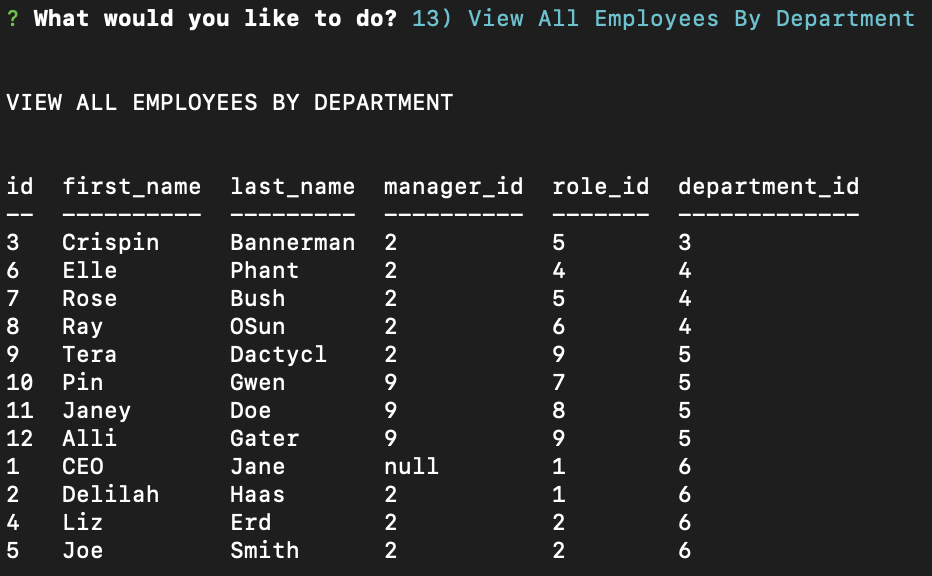
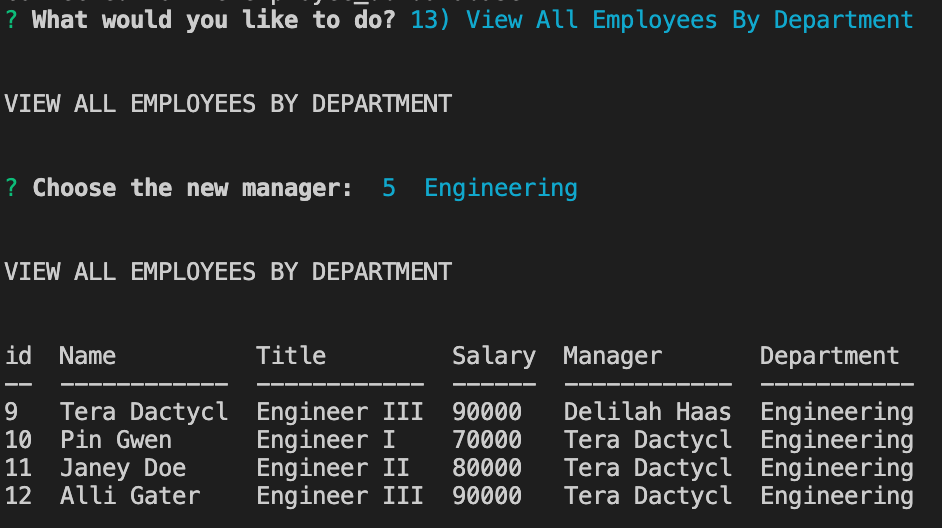
added updated viedo and screenshots

diff --git a/server.js b/server.js
@@ -605,27 +605,73 @@ async function removeDepartment() {
 
 // Menu option 13) View All Employees By Department
 function allEmployeesByDept() {
-    const query = `SELECT id, first_name, last_name, manager_id, role_id, department_id FROM employee WHERE deleted_time is NULL ORDER BY department_id;`;
-    db.query(query, (err, res) => {
+    console.log('\n');
+    console.log('VIEW ALL EMPLOYEES BY DEPARTMENT');
+    console.log('\n');
+
+    // Provide output from employee table for only subset of employees
+    db.query('SELECT * FROM department WHERE deleted_time is NULL;', async (err, res) => {
         if (err) throw err;
-        console.log('\n');
-        console.log('VIEW ALL EMPLOYEES BY DEPARTMENT');
-        console.log('\n');
-        console.table(res);
-        init();
+        let choices = res.map(res => `${res.id}  ${res.name}`);
+        choices.push('none');
+        let { department } = await inquirer.prompt([
+            {
+                name: 'department',
+                type: 'list',
+                choices: choices,
+                message: 'Choose the new manager: '
+            }
+        ]);
+
+        // Use department_id from inquirer.prompt to use in select query
+        const departmentId = department.split(' ')[0];
+        
+        const query = `SELECT e.id, CONCAT(e.first_name, " ", e.last_name) AS Name, role.title AS Title, role.salary AS Salary, CONCAT(m.first_name, " ", m.last_name) AS Manager, department.name AS Department FROM employee e INNER JOIN role ON role_id=role.id INNER JOIN employee m ON e.manager_id=m.id INNER JOIN department ON role.department_id=department.id and e.deleted_time is NULL WHERE e.department_id = ${departmentId} order by e.id;`;
+        // Output all Employees for selected Manager
+        db.query(query, (err, res) => {
+            if (err) throw err;
+            console.log('\n');
+            console.log('VIEW ALL EMPLOYEES BY DEPARTMENT');
+            console.log('\n');
+            console.table(res);
+            init();
+        });
     });
 };
 
 // Menu option 14) View All Employees by Manager
 function allEmployeesByManager() {
-    const query = `SELECT id, first_name, last_name, manager_id, role_id, department_id FROM employee WHERE deleted_time is NULL ORDER BY manager_id;`;
-    db.query(query, (err, res) => {
+    console.log('\n');
+    console.log('VIEW ALL EMPLOYEES BY MANAGER');
+    console.log('\n');
+
+    // Provide output from employee table for only subset of employees
+    db.query('SELECT * FROM employee WHERE deleted_time is NULL;', async (err, res) => {
         if (err) throw err;
-        console.log('\n');
-        console.log('VIEW ALL EMPLOYEES BY MANAGER');
-        console.log('\n');
-        console.table(res);
-        init();
+        let choices = res.map(res => `${res.id}  ${res.first_name} ${res.last_name}`);
+        choices.push('none');
+        let { employee } = await inquirer.prompt([
+            {
+                name: 'employee',
+                type: 'list',
+                choices: choices,
+                message: 'Choose the new manager: '
+            }
+        ]);
+
+        // Use manager_id from inquirer.prompt to use in select query
+        const managerId = employee.split(' ')[0];
+        
+        const query = `SELECT e.id, CONCAT(e.first_name, " ", e.last_name) AS Name, role.title AS Title, role.salary AS Salary, CONCAT(m.first_name, " ", m.last_name) AS Manager, department.name AS Department FROM employee e INNER JOIN role ON role_id=role.id INNER JOIN employee m ON e.manager_id=m.id INNER JOIN department ON role.department_id=department.id and e.deleted_time is NULL WHERE e.manager_id = ${managerId} order by e.id;`;
+        // Output all Employees for selected Manager
+        db.query(query, (err, res) => {
+            if (err) throw err;
+            console.log('\n');
+            console.log('VIEW ALL EMPLOYEES BY MANAGER');
+            console.log('\n');
+            console.table(res);
+            init();
+        });
     });
 };
 

diff --git a/README.MD b/README.MD
@@ -3,7 +3,7 @@
 ## GitHub Repository & Walkthrough Video Application
 * https://github.com/ila0406/Employee-Tracker
 * [Walkthrough Video](https://drive.google.com/drive/u/0/folders/1UI2KWncr4erHyD7Q0AjsXeY8JMkQF5vH)
-* [Walkthrough Viedo - Loom](https://www.loom.com/share/22fbf106ad274bd8930dba5eff2fbc0a)
+* [Walkthrough Viedo - Loom](https://www.loom.com/share/af21a2871f4040b39c209b7a33f29db1)
 
 [![License](https://img.shields.io/badge/License-MIT-blue.svg)](https://opensource.org/licenses/MIT)
 
